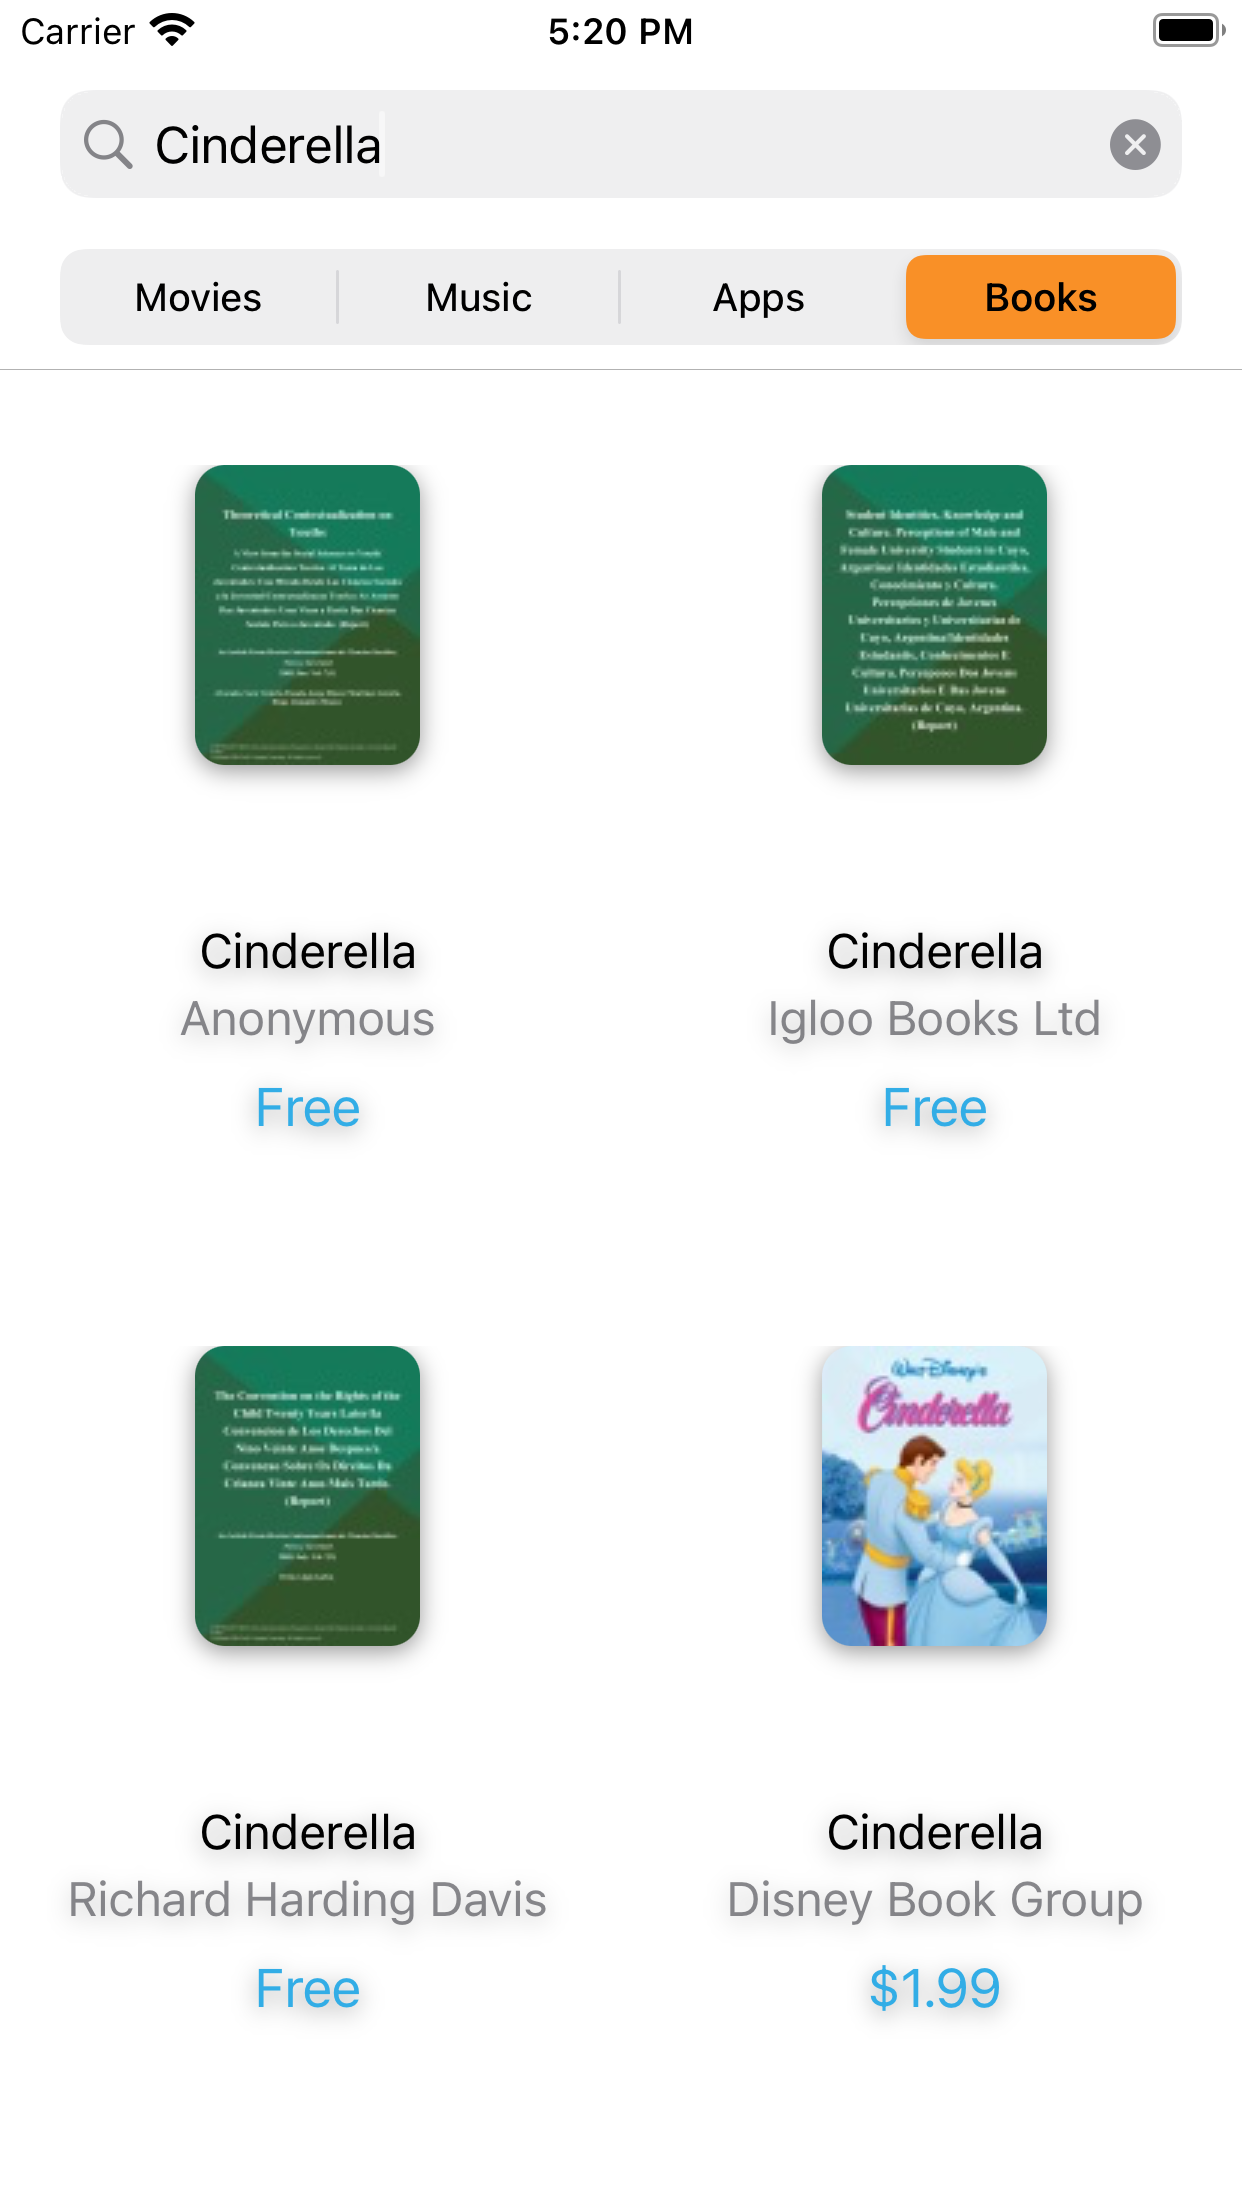
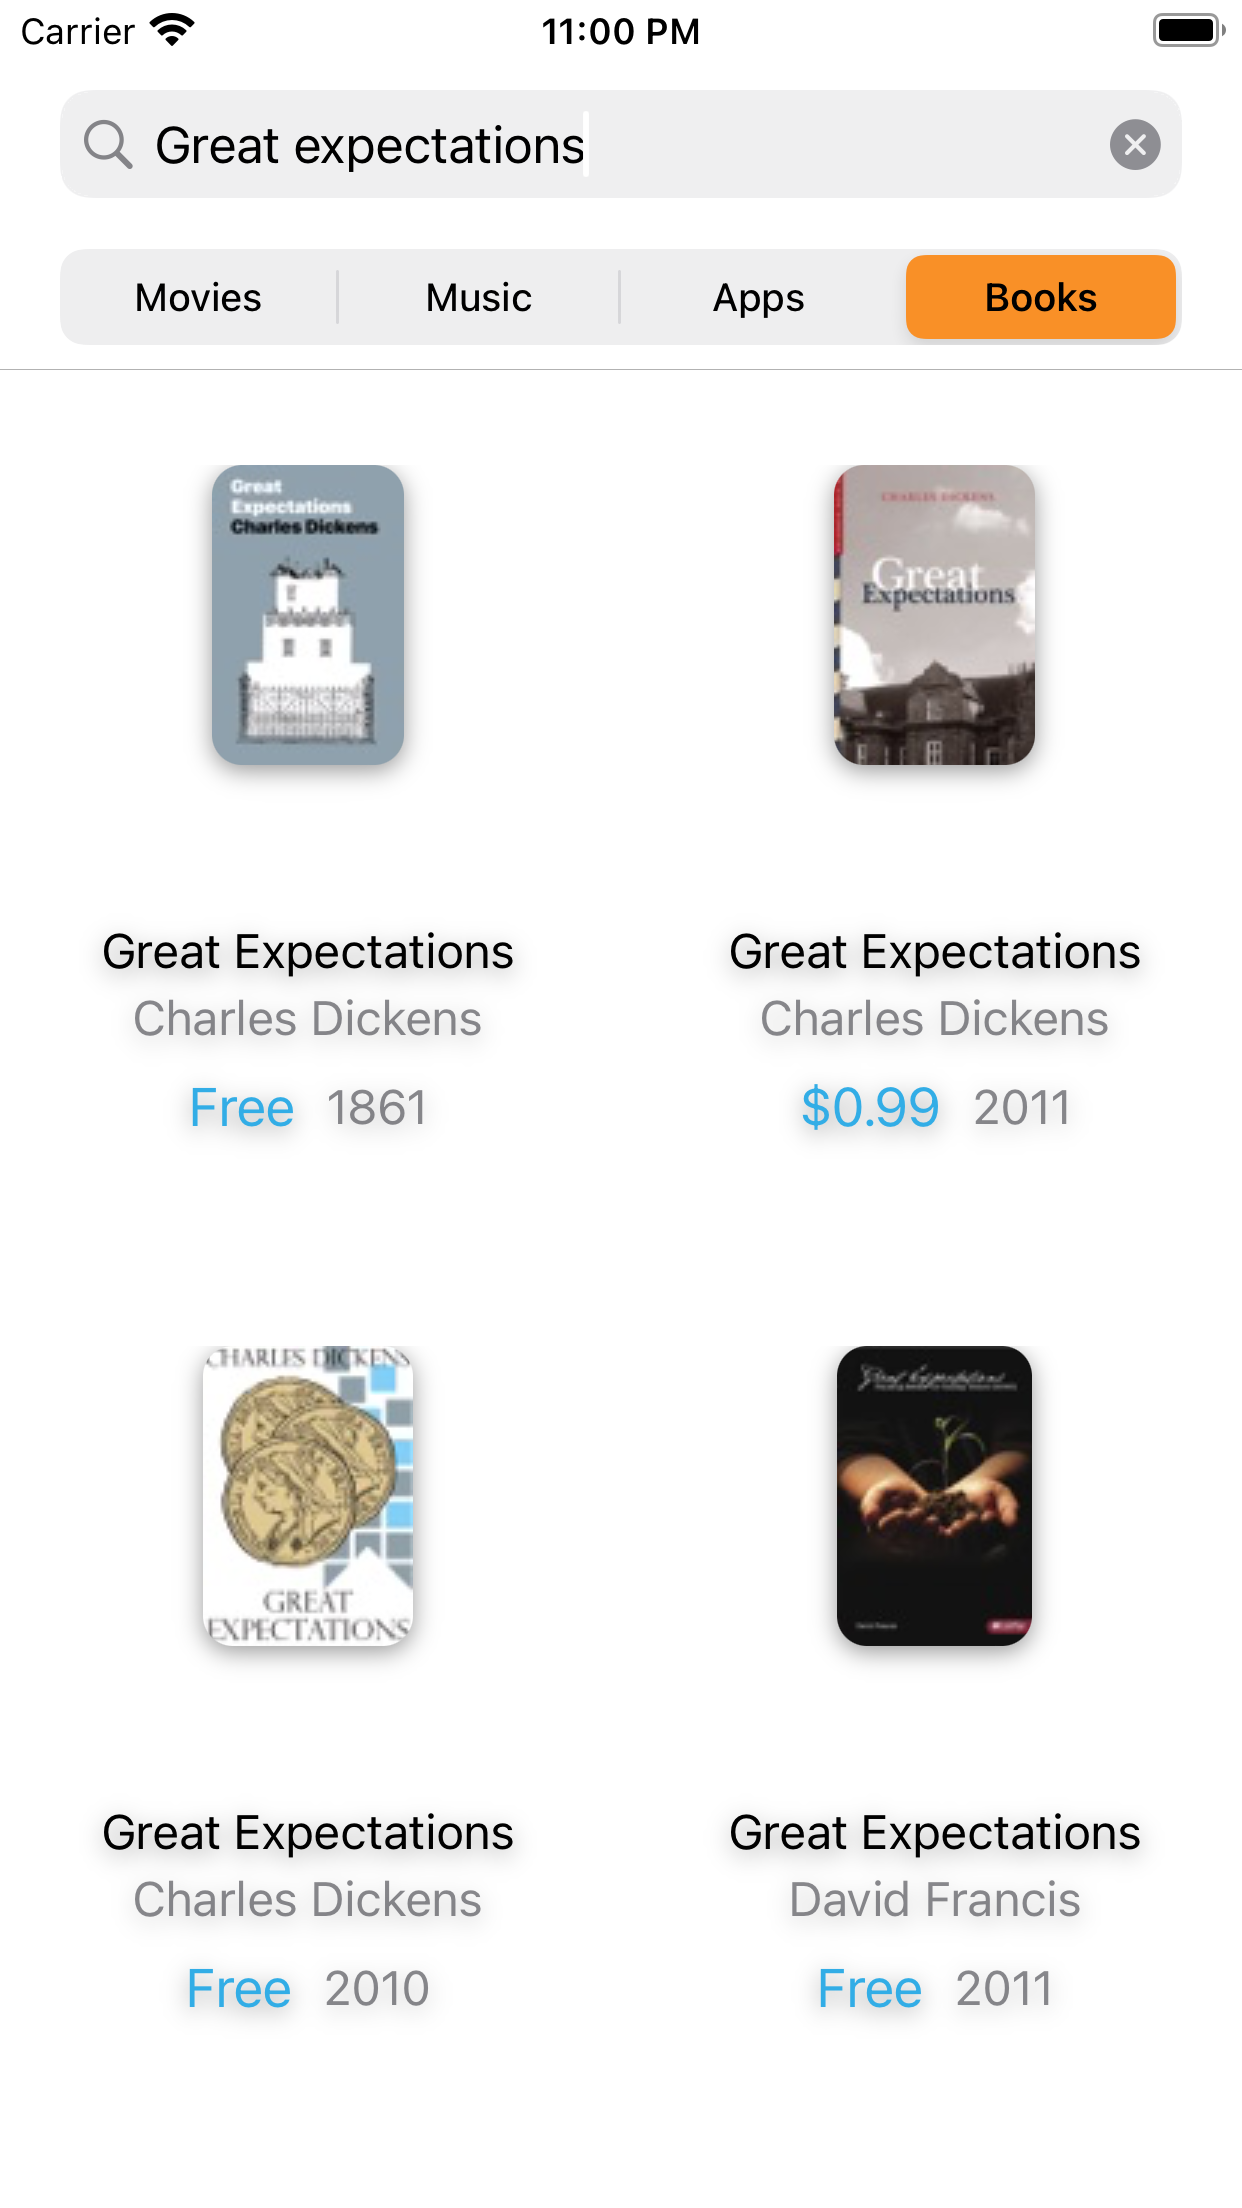
Release Date added

diff --git a/FinalProject/View/MusicCell.swift b/FinalProject/View/MusicCell.swift
@@ -14,9 +14,9 @@ class MusicCell: UICollectionViewCell{
             nameLabel.text = (song?.trackName ?? "")
             artistLabel.text = (song?.artistName ?? "")
             priceLabel.setTitle("$" + String(song?.collectionPrice ?? 0.0), for: .normal)
-            priceLabel.setTitleColor(.systemCyan,
-                                 for: .normal)
-            print(song?.trackName ?? "")
+            
+            priceLabel.setTitleColor(.systemCyan, for: .normal)
+            dateLabel.text = (getFormattedDate(unformatted: song?.releaseDate ?? ""))
             fetchImage(withUrlString: song?.artworkUrl100 ?? "") { image in
                 DispatchQueue.main.async {
                     self.imageView.image = image
@@ -34,7 +34,8 @@ class MusicCell: UICollectionViewCell{
             priceLabel.setTitle("$" + String(movie?.collectionPrice ?? 0.0), for: .normal)
             priceLabel.setTitleColor(.systemCyan,
                                  for: .normal)
-            print(movie?.trackName ?? "")
+            dateLabel.text = (getFormattedDate(unformatted: movie?.releaseDate ?? ""))
+
             fetchImage(withUrlString: movie?.artworkUrl100 ?? "") { image in
                 DispatchQueue.main.async {
                     self.imageView.image = image
@@ -51,6 +52,8 @@ class MusicCell: UICollectionViewCell{
             priceLabel.setTitle(book?.formattedPrice ?? "", for: .normal)
             priceLabel.setTitleColor(.systemCyan,
                                  for: .normal)
+            dateLabel.text = (getFormattedDate(unformatted: book?.releaseDate ?? ""))
+
             fetchImage(withUrlString: book?.artworkUrl100 ?? "") { image in
                 DispatchQueue.main.async {
                     self.imageView.image = image
@@ -67,6 +70,8 @@ class MusicCell: UICollectionViewCell{
             priceLabel.setTitle(app?.formattedPrice ?? "", for: .normal)
             priceLabel.setTitleColor(.systemCyan,
                                  for: .normal)
+            dateLabel.text = (getFormattedDate(unformatted: app?.releaseDate ?? ""))
+
             fetchImage(withUrlString: app?.artworkUrl100 ?? "") { image in
                 DispatchQueue.main.async {
                     self.imageView.image = image
@@ -124,29 +129,35 @@ class MusicCell: UICollectionViewCell{
         let temp = UIStackView(arrangedSubviews: [imageView, mainContainerView])
         temp.translatesAutoresizingMaskIntoConstraints = false
         temp.alignment = .center
-        temp.distribution = .fill
+        //temp.distribution = .fill
         temp.axis = .vertical
         temp.spacing = 3
         return temp
         
     }()
     lazy var stackView2: UIStackView = {
-        let temp = UIStackView(arrangedSubviews: [stackView, priceLabel])
+        //let temp = UIStackView(arrangedSubviews: [stackView, priceLabel])
+        let temp = UIStackView(arrangedSubviews: [stackView, priceDateStack])
+
         temp.translatesAutoresizingMaskIntoConstraints = false
         temp.alignment = .center
-        temp.distribution = .fill
+        //temp.distribution = .fill
         temp.axis = .vertical
         temp.spacing = 3
         return temp
         
     }()
     lazy var stackView: UIStackView = {
+        
         let temp = UIStackView(arrangedSubviews: [nameLabel, artistLabel])
         temp.translatesAutoresizingMaskIntoConstraints = false
+    
         temp.alignment = .center
-        temp.distribution = .fill
+        //temp.distribution = .fill
         temp.axis = .vertical
         temp.spacing = 3
+        
+
         return temp
         
     }()
@@ -155,7 +166,8 @@ class MusicCell: UICollectionViewCell{
         temp.textColor = .black
         temp.font = UIFont.systemFont(ofSize: 16)
         temp.text = "Some Music"
-        temp.numberOfLines = 2
+        temp.numberOfLines = 0
+        temp.lineBreakMode = .byTruncatingTail
         //temp.layer.masksToBounds = true
         //temp.layer.cornerRadius = 10
         //temp.backgroundColor = .white.withAlphaComponent(0.4)
@@ -168,33 +180,47 @@ class MusicCell: UICollectionViewCell{
         temp.textColor = .secondaryLabel
         temp.font = UIFont.systemFont(ofSize: 16)
         temp.text = "Some Music"
-        temp.numberOfLines = 2
-        //temp.layer.masksToBounds = true
-        //temp.layer.cornerRadius = 10
-        //temp.backgroundColor = .white.withAlphaComponent(0.4)
+        temp.numberOfLines = 0
+        temp.lineBreakMode = .byTruncatingTail
         temp.textAlignment = .center
         
         return temp
     }()
-    
+    lazy var priceDateStack: UIStackView = {
+        let temp = UIStackView(arrangedSubviews: [priceLabel, dateLabel])
+        temp.translatesAutoresizingMaskIntoConstraints = false
+        temp.alignment = .center
+        temp.distribution = .fill
+        temp.axis = .horizontal
+        temp.spacing = 10
+        return temp
+        
+    }()
     let priceLabel: UIButton = {
        let temp = UIButton()
-        /*temp.textColor = .systemBlue
-        temp.font = UIFont.systemFont(ofSize: 16)
-        temp.numberOfLines = 2
-        temp.layer.cornerRadius = 4
-        temp.layer.borderWidth = 1.0
-        temp.layer.borderColor = UIColor.blue.cgColor
-        temp.layer.masksToBounds = true
-        //temp.layer.cornerRadius = 10
-        //temp.backgroundColor = .white.withAlphaComponent(0.4)
-        temp.textAlignment = .center*/
+       
         temp.tintColor = .systemBlue
-        temp.contentMode = .center
+        //temp.contentMode = .center
+        temp.contentMode = .left
         temp.titleLabel?.textAlignment = .center
         temp.layer.borderColor = UIColor.blue.cgColor
         temp.layer.cornerRadius = 4
         return temp
+    }()
+    let dateLabel: UILabel = {
+        let temp = UILabel()
+        temp.textColor = .secondaryLabel
+        temp.font = UIFont.systemFont(ofSize: 16)
+        temp.text = "Some Music"
+        temp.numberOfLines = 2
+        //temp.layer.masksToBounds = true
+        //temp.layer.cornerRadius = 10
+        //temp.backgroundColor = .white.withAlphaComponent(0.4)
+        //temp.textAlignment = .center
+        temp.textAlignment = .right
+        
+        return temp
+        
     }()
     
     override init(frame: CGRect) {

diff --git a/FinalProject/Controller/DetailViewController.swift b/FinalProject/Controller/DetailViewController.swift
@@ -11,10 +11,10 @@ import UIKit
 
 class DetailViewController: UIViewController{
     
-    var detailSong = Song(trackId: 0, trackName: "", artworkUrl100: "", collectionPrice: 0.0, collectionName: "", artistName: "")
-    var detailMovie = Movie(trackId: 0, trackName: "", artworkUrl100: "", collectionPrice: 0.0, collectionName: "", artistName: "", primaryGenreName: "")
-    var detailApp = App(trackId: 0, trackName: "", artworkUrl100: "", formattedPrice: "", primaryGenreName: "")
-    var detailBook = Book(trackId: 0, trackName: "", artworkUrl100: "", formattedPrice: "", collectionName: "", artistName: "")
+    var detailSong = Song(trackId: 0, trackName: "", artworkUrl100: "", collectionPrice: 0.0, collectionName: "", artistName: "", releaseDate: "")
+    var detailMovie = Movie(trackId: 0, trackName: "", artworkUrl100: "", collectionPrice: 0.0, collectionName: "", artistName: "", primaryGenreName: "", releaseDate: "")
+    var detailApp = App(trackId: 0, trackName: "", artworkUrl100: "", formattedPrice: "", primaryGenreName: "", releaseDate: "")
+    var detailBook = Book(trackId: 0, trackName: "", artworkUrl100: "", formattedPrice: "", collectionName: "", artistName: "", releaseDate: "")
     
     let detailView = DetailView()
    

diff --git a/FinalProject/Model/MovieResponse.swift b/FinalProject/Model/MovieResponse.swift
@@ -30,8 +30,9 @@ public struct Movie: Codable {
     public let collectionPrice: Double
     public let collectionName: String?
     public let primaryGenreName: String?
-    
-    public init(trackId: Int, trackName: String, artworkUrl100: String, collectionPrice: Double, collectionName: String?, artistName: String, primaryGenreName: String?){
+    public var releaseDate: String
+
+    public init(trackId: Int, trackName: String, artworkUrl100: String, collectionPrice: Double, collectionName: String?, artistName: String, primaryGenreName: String?, releaseDate: String){
         self.trackId = trackId
         self.trackName = trackName
         self.artistName = artistName
@@ -39,6 +40,6 @@ public struct Movie: Codable {
         self.collectionPrice = collectionPrice
         self.collectionName = collectionName
         self.primaryGenreName = primaryGenreName
-
+        self.releaseDate = releaseDate
     }
 }

diff --git a/FinalProject/Model/SongResponse.swift b/FinalProject/Model/SongResponse.swift
@@ -29,14 +29,20 @@ public struct Song: Codable {
     public let artworkUrl100: String
     public let collectionPrice: Double
     public let collectionName: String
+    public var releaseDate: String
     
-    public init(trackId: Int, trackName: String, artworkUrl100: String, collectionPrice: Double, collectionName: String, artistName: String){
+    public init(trackId: Int, trackName: String, artworkUrl100: String, collectionPrice: Double, collectionName: String, artistName: String, releaseDate: String){
         self.trackId = trackId
         self.trackName = trackName
         self.artistName = artistName
         self.artworkUrl100 = artworkUrl100
         self.collectionPrice = collectionPrice
         self.collectionName = collectionName
+        self.releaseDate = releaseDate
+
+       
+
+        
     }
 }
 

diff --git a/FinalProject/Model/BookResponse.swift b/FinalProject/Model/BookResponse.swift
@@ -29,14 +29,15 @@ public struct Book: Codable {
     public let artworkUrl100: String
     public let formattedPrice: String?
     public let collectionName: String?
+    public var releaseDate: String
     
-    public init(trackId: Int, trackName: String, artworkUrl100: String, formattedPrice: String?, collectionName: String?, artistName: String){
+    public init(trackId: Int, trackName: String, artworkUrl100: String, formattedPrice: String?, collectionName: String?, artistName: String, releaseDate: String){
         self.trackId = trackId
         self.trackName = trackName
         self.artistName = artistName
         self.artworkUrl100 = artworkUrl100
         self.formattedPrice = formattedPrice
         self.collectionName = collectionName
-
+        self.releaseDate = releaseDate
     }
 }

diff --git a/FinalProject/Model/AppResponse.swift b/FinalProject/Model/AppResponse.swift
@@ -30,13 +30,14 @@ public struct App: Codable {
     public let formattedPrice: String
     //public let collectionName: String?
     public let primaryGenreName: String?
-    
-    public init(trackId: Int, trackName: String, artworkUrl100: String, formattedPrice: String, primaryGenreName: String?){
+    public var releaseDate: String
+
+    public init(trackId: Int, trackName: String, artworkUrl100: String, formattedPrice: String, primaryGenreName: String?, releaseDate: String){
         self.trackId = trackId
         self.trackName = trackName
         self.artworkUrl100 = artworkUrl100
         self.formattedPrice = formattedPrice
         self.primaryGenreName = primaryGenreName
-
+        self.releaseDate = releaseDate
     }
 }

diff --git a/FinalProject/Utils/Extensions.swift b/FinalProject/Utils/Extensions.swift
@@ -40,3 +40,19 @@ extension UIView{
     
     
 }
+
+
+extension MusicCell{
+    func getFormattedDate(unformatted: String) -> String{
+        
+        let dateFormatterGet = DateFormatter()
+        dateFormatterGet.dateFormat = "yyyy-MM-dd'T'HH:mm:ssZ"
+
+        let dateFormatterPrint = DateFormatter()
+        dateFormatterPrint.dateFormat = "yyyy"
+        let formatted = dateFormatterGet.date(from: unformatted)
+        
+        return dateFormatterPrint.string(from: formatted ?? Date())
+        
+    }
+}
